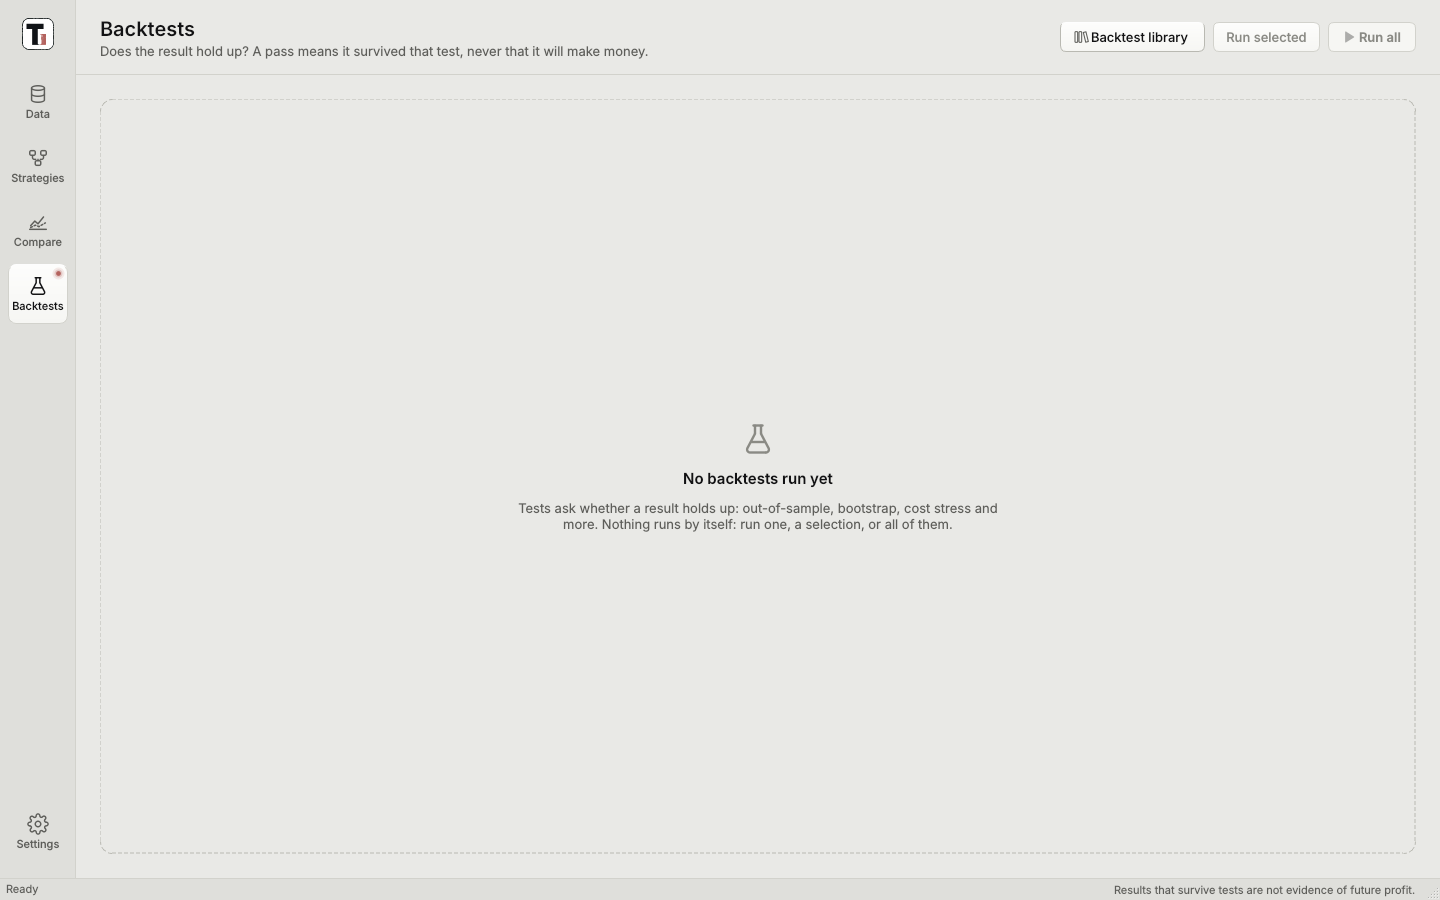
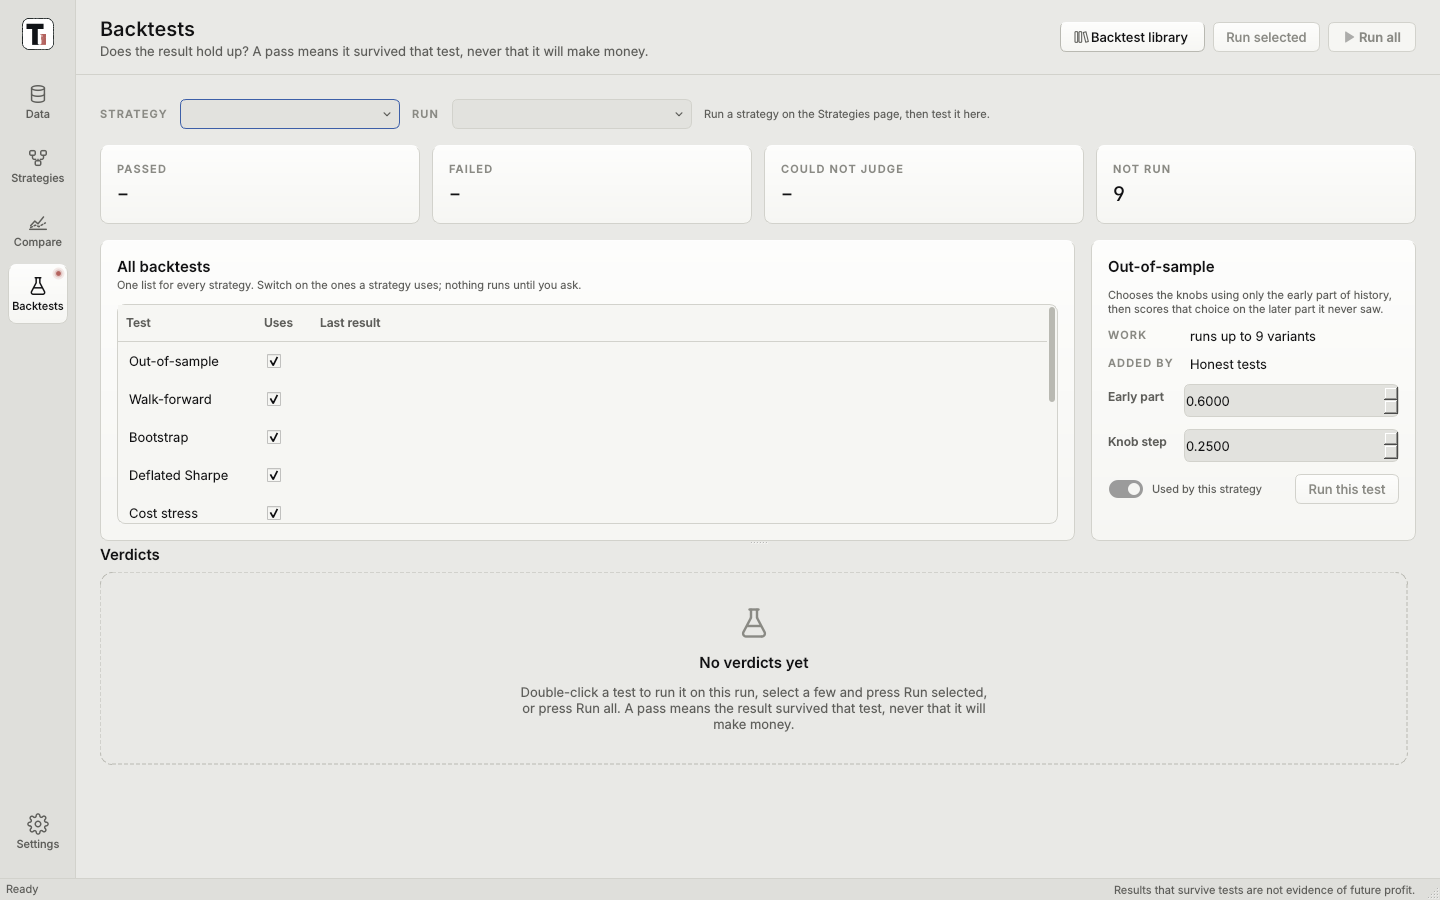
Docs, backtest plugin template, screenshots, chart legend overflow

diff --git a/tools/screenshots.py b/tools/screenshots.py
@@ -109,6 +109,7 @@ def shoot(app, skin_id: str, out: Path, sample: Path | None = None) -> None:
             shoot_patch_bay(app, Path(tmp), out, mode)
             if sample is not None:
                 shoot_run(app, Path(tmp), sample, out, mode)
+                shoot_compare_backtests(app, Path(tmp), sample, out, mode)
             if sample is not None:
                 ws = Workspace(data_root=sample)
                 ws.strategies.put("gap-fade", StrategyGraph("gap-fade", "Gap fade"))
@@ -127,6 +128,52 @@ def shoot(app, skin_id: str, out: Path, sample: Path | None = None) -> None:
         settle(app)
         g.widget().grab().save(str(out / f"gallery-{mode}.png"))
         g.close()
+
+
+_TESTED: dict = {}
+
+
+def tested_workspace(sample: Path) -> Workspace:
+    """Two strategies run on synthetic data, with the default strategy and a set of tests run on the
+    first. Made once and shared by every skin and mode (the work doesn't depend on the look)."""
+    if "ws" in _TESTED:
+        return _TESTED["ws"]
+    from titanium.core.module_library import momentum_rotation
+
+    ws = Workspace(data_root=sample)
+    info = next(i for i in ws.datasets.infos("core") if i.name.startswith("Synthetic stocks (10"))
+    a = momentum_rotation(id="S1")
+    a.settings["datasets"] = [info.id]
+    b = momentum_rotation(id="S2", name="Fast momentum")
+    b.settings["datasets"] = [info.id]
+    b.knob_values = {"m1.days": 10, "m3.top": 3}
+    ws.strategies.put("S1", a)
+    ws.strategies.put("S2", b)
+    ws.runs.run("S2")
+    ra = ws.runs.run("S1")
+    ws.runs.commit(ws.runs.prepare_baseline(ra).execute())
+    for tid, params in (("out_of_sample", {}), ("bootstrap", {}), ("deflated_sharpe", {}), ("cost_stress", {}),
+                        ("random_baseline", {"n": 8}), ("benchmark", {}), ("parameter_stability", {})):
+        ws.backtests.run(ra.id, tid, params)
+    _TESTED["ws"] = ws
+    return ws
+
+
+def shoot_compare_backtests(app, tmp: Path, sample: Path, out: Path, mode: str) -> None:
+    ws = tested_workspace(sample)
+    ctx = AppContext(QSettings(str(tmp / "s4.ini"), QSettings.IniFormat), ws)
+    win = build_window(ctx)
+    win.resize(1440, 900)
+    win.show()
+    win.show_page("compare")
+    settle(app)
+    win.grab().save(str(out / f"compare-runs-{mode}.png"))
+    win.show_page("backtests")
+    view = win.views["backtests"]
+    view.select_strategy("S1")
+    settle(app)
+    win.grab().save(str(out / f"backtests-results-{mode}.png"))
+    win.close()
 
 
 def shoot_patch_bay(app, tmp: Path, out: Path, mode: str) -> None:

diff --git a/titanium/desktop/design/chart.py b/titanium/desktop/design/chart.py
@@ -450,17 +450,25 @@ class TimeChart(Canvas):
         p.drawText(QRectF(x, y, 140, 16), Qt.AlignLeft | Qt.AlignVCenter, stamp)
         x += p.fontMetrics().horizontalAdvance(stamp) + 18
         ui = theme.ui_font(T.TYPE.caption)
-        for s in self.series[:8]:
+        p.setFont(ui)
+        fm = p.fontMetrics()
+        right = self.width() - 8
+        for i, s in enumerate(self.series):
             v = s.at(at)
             fmt = self.formats[RIGHT if s.axis == RIGHT else s.panel]
             text = f"{s.name}  {fmt(v) if v is not None else '–'}"
+            w = fm.horizontalAdvance(text)
+            rest = len(self.series) - i - 1
+            more = f"+{rest} more" if rest else ""
+            need = 12 + w + (16 + fm.horizontalAdvance(more) if more else 0)
+            if x + need > right:  # no room: say how many are left out (they are in the crosshair dots)
+                more = f"+{len(self.series) - i} more"
+                p.setPen(theme.qcolor(pal.text_muted))
+                p.drawText(QRectF(x, y, fm.horizontalAdvance(more) + 4, 16), Qt.AlignLeft | Qt.AlignVCenter, more)
+                break
             p.setPen(Qt.NoPen)
             p.setBrush(colors[id(s)])
             p.drawRoundedRect(QRectF(x, y + 5, 8, 6 if not s.dashed else 2), 1, 1)
-            p.setFont(ui)
             p.setPen(theme.qcolor(pal.text))
-            w = p.fontMetrics().horizontalAdvance(text)
-            if x + 12 + w > self.width() - 8:
-                break
             p.drawText(QRectF(x + 12, y, w + 4, 16), Qt.AlignLeft | Qt.AlignVCenter, text)
             x += 12 + w + 16

diff --git a/titanium/plugins/builtin/honest-tests/plugin.py b/titanium/plugins/builtin/honest-tests/plugin.py
@@ -35,6 +35,12 @@ def _knobs_text(knobs: dict) -> str:
         or "the knobs as run"
 
 
+def _best(variants, ppy, end):
+    """The variant with the best Sharpe on the steps before ``end``; on a tie (often: nothing traded yet)
+    the run as written, then the first listed."""
+    return max(variants, key=lambda v: (round(sharpe(step_returns(v.record, end=end), ppy), 9), v.is_run))
+
+
 # ---------------------------------------------------------------------------------------------
 class OutOfSample:
     order = 10
@@ -55,7 +61,7 @@ class OutOfSample:
         if cut is None or len(step_returns(run, end=cut)) < MIN_STEPS or len(step_returns(run, start=cut)) < MIN_STEPS:
             return _not_enough(name, f"at least {MIN_STEPS} steps on each side of the split")
         variants = ctx.variants(spread)
-        best = max(variants, key=lambda v: sharpe(step_returns(v.record, end=cut), ppy))
+        best = _best(variants, ppy, end=cut)
         is_sharpe = sharpe(step_returns(best.record, end=cut), ppy)
         oos = step_returns(best.record, start=cut)
         oos_sharpe, oos_total = sharpe(oos, ppy), total_growth(oos)
@@ -103,7 +109,7 @@ class WalkForward:
         stitched, wins, picks = [], 0, []
         for i in range(1, folds + 1):
             a, b = edges[i], edges[i + 1]
-            best = max(variants, key=lambda v: sharpe(step_returns(v.record, end=a), ppy))
+            best = _best(variants, ppy, end=a)
             part = step_returns(best.record, start=a, end=b)
             stitched += part
             wins += total_growth(part) > 0

diff --git a/titanium/desktop/pages/backtests.py b/titanium/desktop/pages/backtests.py
@@ -298,8 +298,10 @@ class BacktestsView(PageView):
         self.run_all.setEnabled(has_run or busy)
         self.run_all.setText("Stop" if busy else "Run all")
         self.library_btn.setEnabled(True)
-        if not busy:
-            self.status.setText("" if has_run else "Run a strategy on the Strategies page, then test it here.")
+        if not has_run:
+            self.status.setText("Run a strategy on the Strategies page, then test it here.")
+        elif not busy and self.status.text().startswith("Run a strategy"):
+            self.status.setText("")
         self._show_test(self.table.selected_key() or (keys[0] if keys else None))
         self._fill_results(results, tests, used)
         self._stale(rec)
@@ -481,7 +483,7 @@ class BacktestsView(PageView):
             self.status.setText(f"{text} · {int(fraction * 100)}%")
 
     def _idle(self) -> None:
-        self.status.setText("Done")
+        self.status.setText("Done. A pass means the result survived that test.")
         self.refresh()
 
     # ---- the library ----------------------------------------------------------------

diff --git a/titanium/plugins/pack.py b/titanium/plugins/pack.py
@@ -250,6 +250,25 @@ class {cls}(Source):
 def setup(plugin):
     plugin.add(Library.DATA_SOURCES, {cls}.name, {cls}(), doc={cls}.doc)
 ''',
+    "backtests": '''from titanium.sdk import BacktestInfo, Library, Param, Verdict, sharpe, step_returns, steps_per_year
+
+
+class {cls}:
+    order = 100
+    info = BacktestInfo("{name}", "{title}", "One or two sentences: what it checks.",
+                        [Param("threshold", "float", 0.0, "Threshold")], "reads the run")
+
+    def evaluate(self, ctx, threshold=0.0):
+        """Read ctx.run; ctx.rerun(settings=..., knobs=...) runs the same engine again. A pass means only
+        that the result survived this test."""
+        s = sharpe(step_returns(ctx.run), steps_per_year(ctx.run))
+        return Verdict(self.info.name, s > threshold, f"Sharpe {{s:.2f}}", "Why this matters, in plain words.",
+                       {{"figures": [("Sharpe", f"{{s:.2f}}")]}})
+
+
+def setup(plugin):
+    plugin.add(Library.BACKTESTS, {cls}.info.id, {cls}(), doc={cls}.info.doc)
+''',
     "generators": '''from titanium.sdk import Library, Param
 
 

diff --git a/tests/test_backtests.py b/tests/test_backtests.py
@@ -109,8 +109,6 @@ def test_random_picks_keep_count_weights_and_holding():
     kept = set(out[1].targets) & set(out[2].targets)
     assert len(kept) == 1  # A kept its stand-in, B's went with B
     assert out[3].targets == {}
-    rp2 = RandomPicks(_Inner(copy.deepcopy(script)), seed=2, settings={})
-    assert [rp2.decide(_View(names, None), p).targets for _ in script] != [d.targets for d in out] or True
 
 
 def test_random_picks_flip_a_coin_with_one_instrument():
@@ -248,7 +246,7 @@ def test_backtests_page_runs_tests_and_groups_verdicts(page_ctx, ws):
     assert shown == {k: r.outcome for k, r in ws.backtests.results(ws.rec.id).items() if k in shown}
     counts = {k: sum(1 for o in shown.values() if o == k) for k in ("pass", "fail", "na")}
     assert {k: v.tiles[k].value.text() for k in counts} == {k: str(n) for k, n in counts.items()}
-    assert v.status.text() == "Done" and not v.queue.running
+    assert v.status.text().startswith("Done") and not v.queue.running
     # folding is remembered by test
     v.cards["bootstrap"].set_folded(True, emit=True)
     v.refresh()

diff --git a/titanium/plugins/__main__.py b/titanium/plugins/__main__.py
@@ -1,6 +1,6 @@
 """``python -m titanium.plugins new|check|pack|install|list|remove``.
 
-    new <id> [--adds modules|data_sources|generators|skins] [--in FOLDER]
+    new <id> [--adds modules|data_sources|generators|backtests|skins] [--in FOLDER]
     check <folder or .tiplug> [--no-tests]
     pack <folder> [--out FOLDER]
     install <.tiplug or folder> [--replace] [--no-tests]

diff --git a/docs/backtests.md b/docs/backtests.md
@@ -1,0 +1,82 @@
+# Backtests and Compare
+
+Honest evaluation is what Titanium is for. A backtest asks whether a result holds up; a pass
+means only that it survived that test, never that the strategy will make money.
+
+## The library
+
+Tests are `Library.BACKTESTS` entries. The ones the app ships with are the built-in plugin
+`honest-tests` (`titanium/plugins/builtin/honest-tests`). A test is an object with:
+
+```python
+from titanium.sdk import BacktestInfo, Param, Verdict
+
+class MyTest:
+    order = 90                       # where it sits in the list
+    info = BacktestInfo("my_test", "My test", "One or two sentences: what it checks.",
+                        [Param("n", "int", 20, "Versions", minimum=5)], "runs n variants")
+
+    def evaluate(self, ctx, n=20):
+        rec = ctx.run                           # the RunRecord being judged
+        other = ctx.rerun(settings={"costs": {"stress": 2}})   # same engine, changed settings
+        tuned = ctx.rerun(knobs={"m1.days": 30})                # changed knobs
+        base = ctx.baseline()                                   # the default strategy, same terms
+        return Verdict("My test", True, "The headline, in plain words",
+                       "Why it matters.", {"figures": [("Label", "+1.2%")]})
+```
+
+`ctx` (`core.backtests.BacktestContext`) also has `variants(spread)` (the run plus each number
+knob moved down and up, run once and shared by every test on the run), `trials()` (versions of the
+strategy run this session), `history`, `graph`, `strategy`, `progress(fraction)` and `cancelled()`.
+Helpers in `titanium.sdk`: `step_returns`, `steps_per_year`, `sharpe`, `t_stat`, `aligned_returns`,
+`split_time`, `total_growth`, `knob_variants`, `ingredients`, `without`, `RandomPicks`.
+
+Reruns go through the one simulator. Because it is causal, a variant's returns before a date are
+what a run stopped there would give, so out-of-sample and walk-forward slice one run per variant.
+
+| Test | What it does | Extra runs |
+| --- | --- | --- |
+| Out-of-sample | Chooses the knobs on the early part, scores the later part | up to 9 variants |
+| Walk-forward | Re-chooses the knobs before each stretch, scores only what follows | the same variants |
+| Bootstrap | Block-resamples the step returns; the lower bound must stay above zero | none |
+| Deflated Sharpe | Discounts the Sharpe ratio for versions tried this session and for fat tails | none |
+| Cost stress | Runs with costs off and multiplied; must still make money | 2 |
+| Random baseline | Same timing, weights and holding periods, random names (one instrument: coin-flip direction) | n |
+| Benchmark | Step by step against the default strategy, same costs | 1 |
+| Parameter stability | Share of nearby knob settings that make money | the same variants |
+| Ablation | Takes out a filter module or switch knob; does it earn clearly more with it? | 1 |
+
+## The service: `workspace.backtests`
+
+```python
+job = workspace.backtests.prepare(run_id, "cost_stress", params=None)  # UI thread; params: the strategy's
+tasks.run(job.execute, workspace.backtests.commit, on_error)           # worker, then UI thread
+workspace.backtests.cancel(job.id)
+workspace.backtests.run(run_id, "bootstrap")         # both at once (tests, scripts)
+workspace.backtests.results(run_id)                  # {test_id: BacktestResult}, the latest of each
+workspace.backtests.tests()                          # [BacktestInfo], in list order
+workspace.backtests.used(graph) / set_used(id, {test_id: params})   # settings["backtests"]
+```
+
+A test that raises is a result (`status == "failed"`, could not judge, with the error), never a
+crash. Reruns are not added to `workspace.runs`; the default strategy's run is, so Compare shows it.
+
+In the desktop app, `desktop/backtest_queue.BacktestQueue` runs tests one after another off the UI
+thread and announces each result as it arrives. The Backtests page and the Run view's backtest
+block both use it.
+
+## The pages
+
+- **Backtests**: pick a strategy and one of its runs (the latest by default). The list has every
+  test; the Uses switch says which ones Run all runs, and the panel beside it holds the selected
+  test's settings. Both are saved in the strategy. Verdicts arrive one by one, grouped into Failed,
+  Passed and Could not judge; folding a verdict is remembered. If the strategy changed since the
+  run, the page says so.
+- **Compare**: tick strategies (their latest run) or earlier runs. One tab per curve in the
+  measurement library (profit, drawdown, exposure). The default strategy is drawn dashed. Profit and
+  drawdown are measured from the start of the visible window, and the table reads that window.
+- **Run view**: the backtest block runs out-of-sample, cost stress, random baseline and walk-forward
+  on the last run and shows their verdicts; All tests opens the Backtests page.
+
+Writing tests and measurements inside the app comes later; the library dialogs on both pages are
+where those editors will open.

diff --git a/CLAUDE.md b/CLAUDE.md
@@ -25,7 +25,7 @@ Pages never import each other and never reach into the engine.
 - Follow `docs/design-language.md`: no blue fills, red means live, one signal-gradient
   edge per area, glow only on the Run button, mono numbers.
 - Build UI from `desktop/design/components.py` (Card, StatTile, EmptyState, Segmented,
-  RunButton, Canvas, the node canvas, button variants, badge, label roles), plus `TimeChart` in `design/chart.py`. Need something new? Add it to the kit and the
+  RunButton, Canvas, the node canvas, button variants, badge, label roles), plus `TimeChart` in `design/chart.py` and `VerdictCard` for backtest results. Need something new? Add it to the kit and the
   gallery first, then use it.
 - Icons: `desktop/design/icons.py`, recoloured through `theme.watch` on theme change.
 - One primary button per area. Sentence case. Plain words in labels and help.
@@ -44,7 +44,9 @@ Pages never import each other and never reach into the engine.
 - Calendars are rule-based (`core/calendars.py`), never inferred from data.
 - Datasets live in `paths.app_folder() / "data"` as Parquet plus `catalogue.json`.
 - One simulation engine. Measurements and backtests read run records; backtests may
-  re-run the same engine with changed settings.
+  re-run the same engine with changed settings (`workspace.backtests`, tests in
+  `Library.BACKTESTS`, built-ins in the `honest-tests` plugin; see `docs/backtests.md`).
+  A pass means only that a result survived that test.
 - Cash is real currency in the ledger (notional capital); results are shown normalised.
 - Plugins add entries to libraries via a manifest; removing one never breaks others.
   The loader is `app/plugins.py` (`workspace.plugins`); built-ins live in

diff --git a/docs/plugins.md b/docs/plugins.md
@@ -1,13 +1,14 @@
 # Plugins
 
 A plugin is a folder that adds entries to the app's libraries: data sources, generated
-data, modules, skins (and later measurements, backtests, brokers, views). Removing one
+data, modules, skins, measurements, backtests (and later brokers, views). Removing one
 never breaks the others.
 
 ## Where they come from
 
 - `titanium/plugins/builtin/`: the ones that ship with the app. `synthetic-data`,
-  `market-downloads`, `realised-volatility` and `starter-modules`. Each can be switched off.
+  `market-downloads`, `realised-volatility`, `starter-modules` and `honest-tests` (the
+  backtests, see `docs/backtests.md`). Each can be switched off.
   File import and the Graphite and Classic skins are part of the app, not plugins.
 - `Documents/Titanium/plugins/` (or `$TITANIUM_HOME/plugins`): yours, and the ones you
   import as `.tiplug` packs. On/off is remembered in `plugins.json` there.
@@ -57,7 +58,7 @@ def setup(plugin):
 ## The command line
 
 ```
-python -m titanium.plugins new my-source --adds data_sources   # modules, generators, skins
+python -m titanium.plugins new my-source --adds data_sources   # modules, generators, backtests, skins
 python -m titanium.plugins check my-source
 python -m titanium.plugins pack my-source
 python -m titanium.plugins install my-source-0.1.0.tiplug
